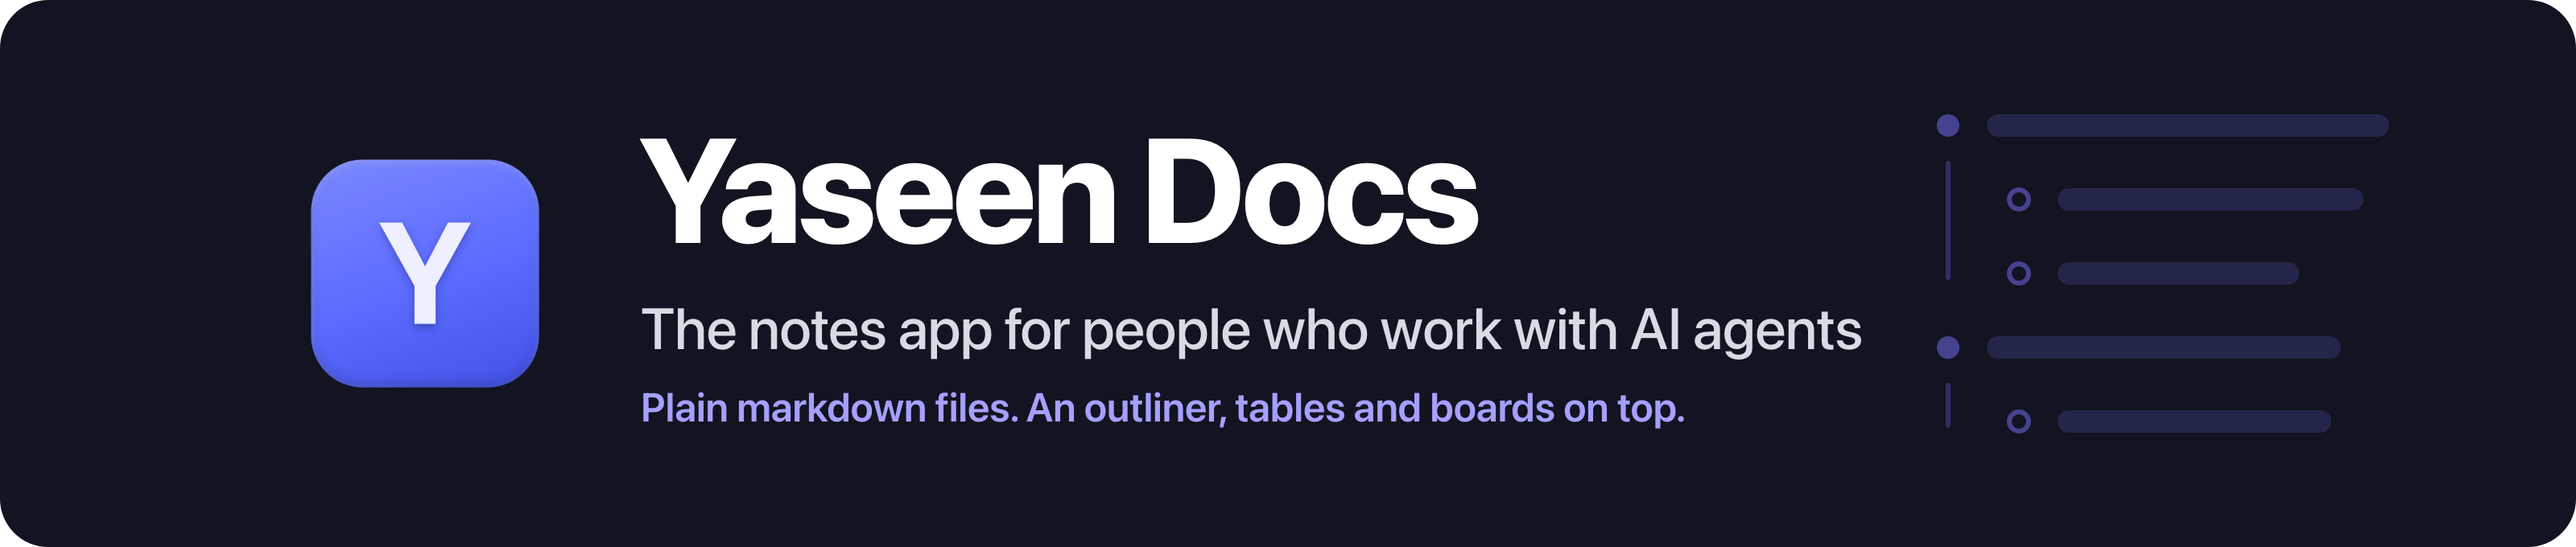
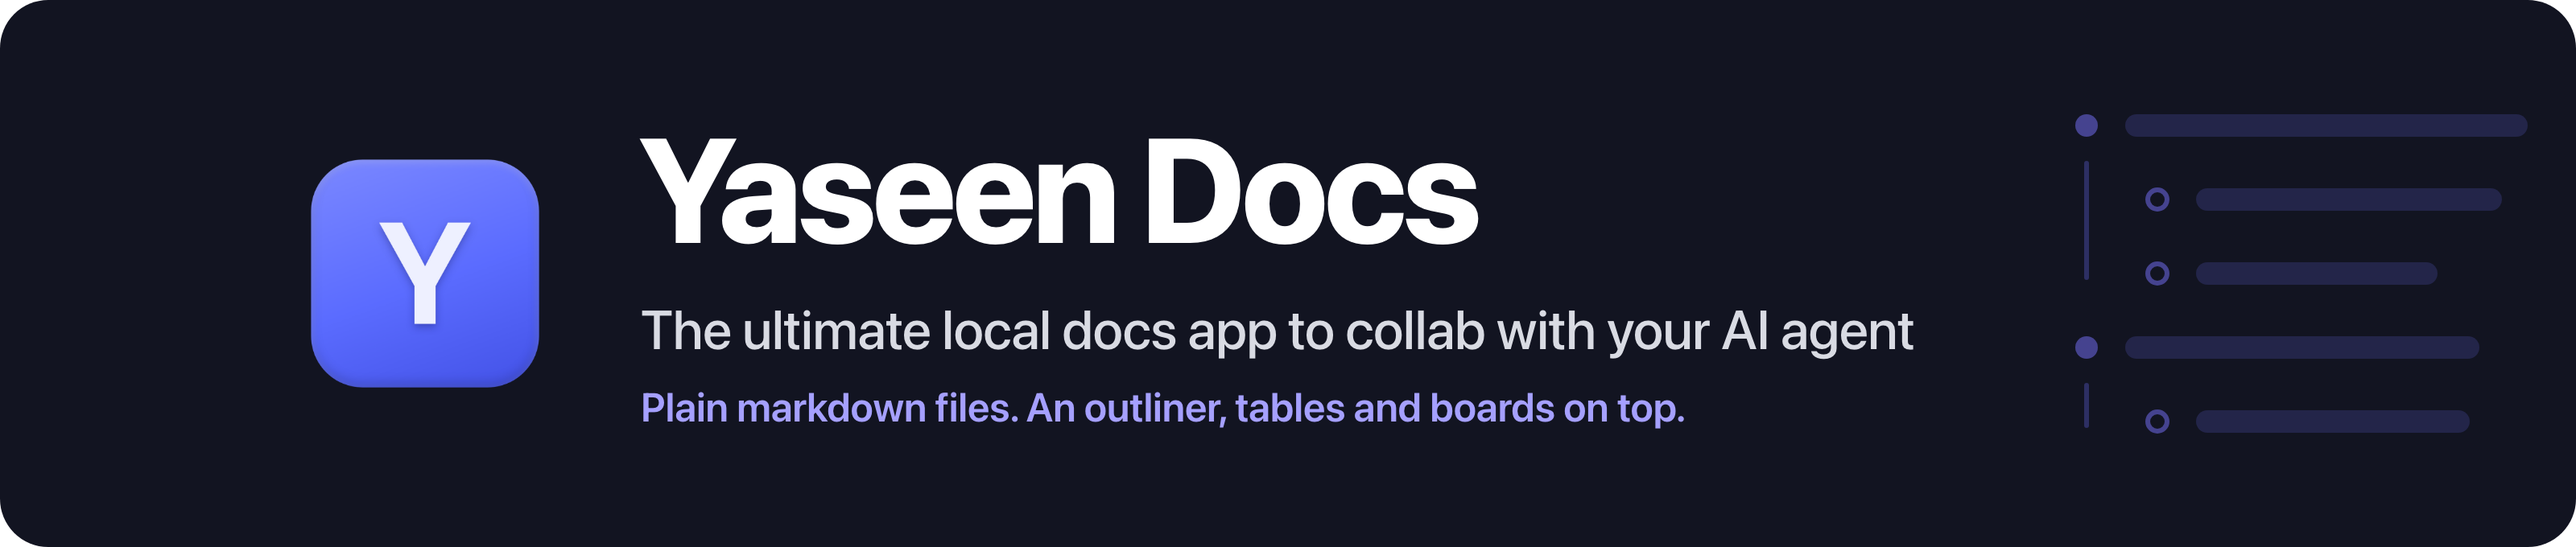
docs(readme): the tag line is "The ultimate local docs app to collab with your AI agent"
The banner, the link preview picture and the alt text of the banner have
the new line. The outline in the corner of the banner moves right, because
the line is longer.

diff --git a/thoughts/ledgers/CONTINUITY_CLAUDE-readme-landing-page.md b/thoughts/ledgers/CONTINUITY_CLAUDE-readme-landing-page.md
@@ -1,6 +1,6 @@
 # Continuity: README as a sales page
 
-Branch: `docs/readme-landing-page`. The guide for this work:
+Branch: `docs/readme-landing-page` (merged, PR #117), then `docs/readme-tagline`. The guide for this work:
 `skills-growprofit-eng/yaseen-skills-and-prompts/1-yaseen-engineering-workflow/yaseen-references/github-initial-repo-setup-sop.md`.
 
 ## Goal
@@ -36,6 +36,9 @@ picture are set.
 - The agent in the pictures is a drawn chat window with the title "Your AI agent",
   not a terminal (Yasin, 13 Oct 2026). It copies no real product. The comment below
   the note is real: the command runs during the capture.
+- The tag line is Yasin's (13 Oct 2026): "The ultimate local docs app to collab with
+  your AI agent". It is in the banner, in the link preview picture and in the alt text
+  of the banner. It replaced "The notes app for people who work with AI agents".
 - The licence is MIT (Yasin's choice, 13 Oct 2026).
 - `LAUNCH.md` is now `docs/DEVELOPMENT.md`. The old README is `docs/FEATURES.md`.
 - The `yaseendocs` command is not on PATH and is for the Mac only. The README
@@ -52,9 +55,12 @@ picture are set.
   - [x] Phase 4: README written, MIT `LICENSE` added
   - [x] Phase 5: branch pushed, Yasin looked at the page on GitHub
   - [x] Phase 7: About box (description, link, 8 topics) set, Projects tab off (Yasin said yes, 13 Oct 2026)
-- Now: [→] Phase 6: Yasin approved the page (13 Oct 2026). Open the PR, merge when the check is green
+  - [x] Phase 6: Yasin approved the page, PR #117 merged (13 Oct 2026)
+  - [x] Phase 8: Yasin uploaded the link preview picture (the one with the old tag line)
+- Now: [→] Phase 9: the new tag line, on branch `docs/readme-tagline`
 - Remaining:
-  - [ ] Phase 8: Yasin uploads `~/Downloads/yaseen-docs-app-social-preview.png` (Settings, General, Social preview)
+  - [ ] Phase 10: Yasin uploads the new `~/Downloads/yaseen-docs-app-social-preview.png` again
+  - [ ] Phase 11: the About box still has the old line. A change needs Yasin's yes.
 
 ## Open Questions
 

diff --git a/README.md b/README.md
@@ -1,5 +1,5 @@
 <p align="center">
-  <img src="docs/assets/banner.png" width="860" alt="Yaseen Docs. The notes app for people who work with AI agents. Plain markdown files, with an outliner, tables and boards on top.">
+  <img src="docs/assets/banner.png" width="860" alt="Yaseen Docs. The ultimate local docs app to collab with your AI agent. Plain markdown files, with an outliner, tables and boards on top.">
 </p>
 
 <p align="center">
